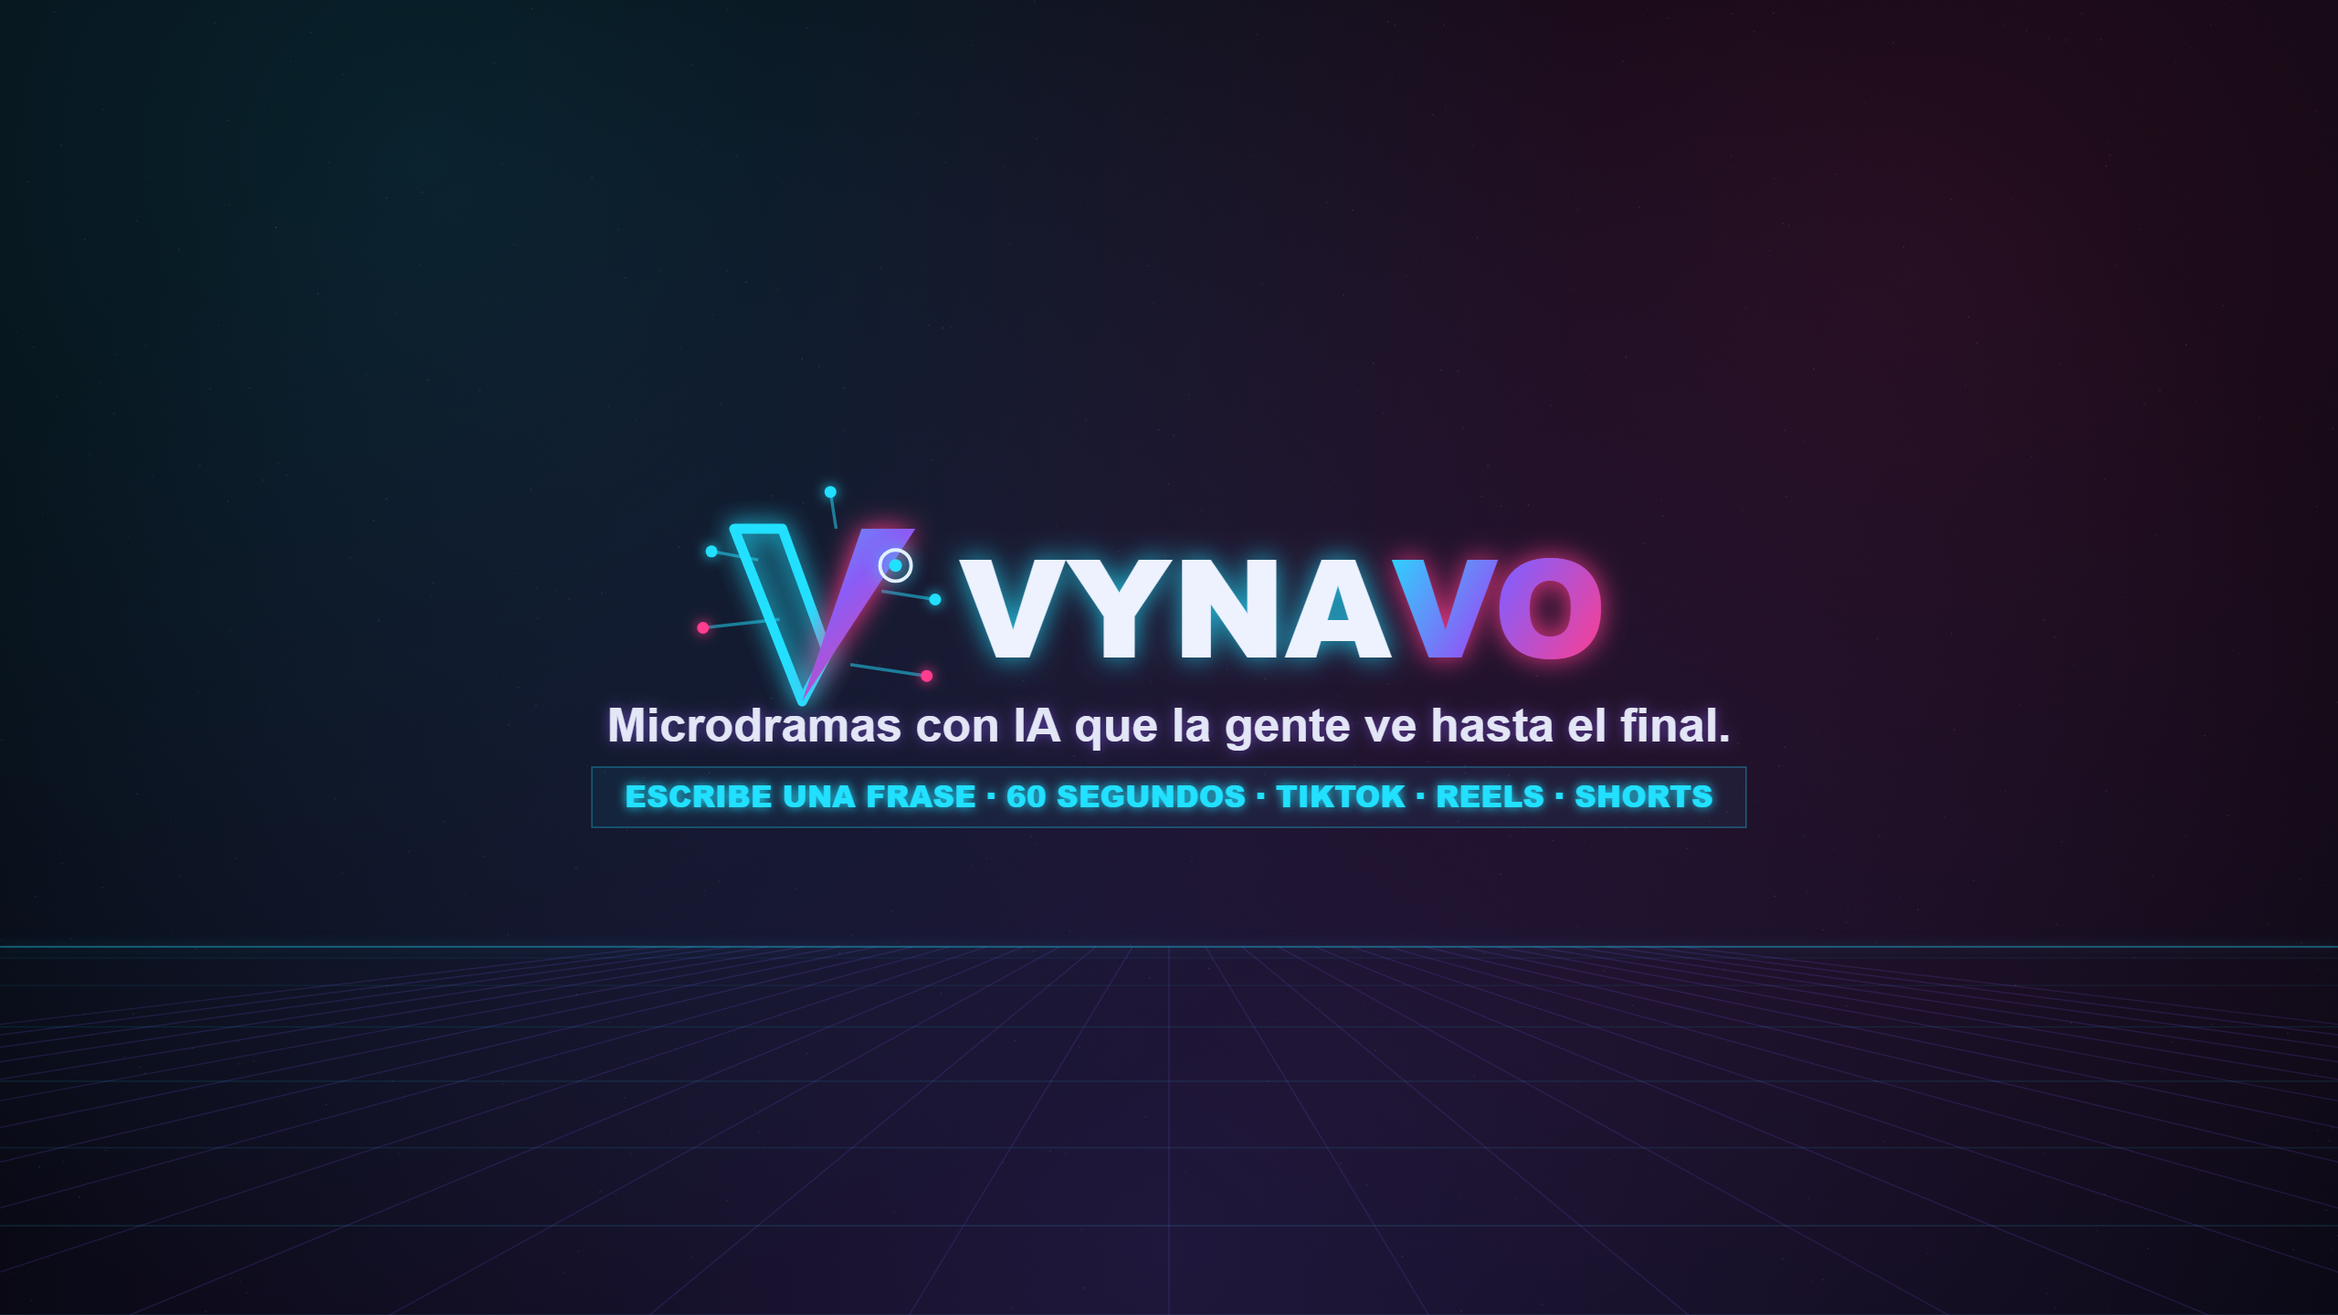
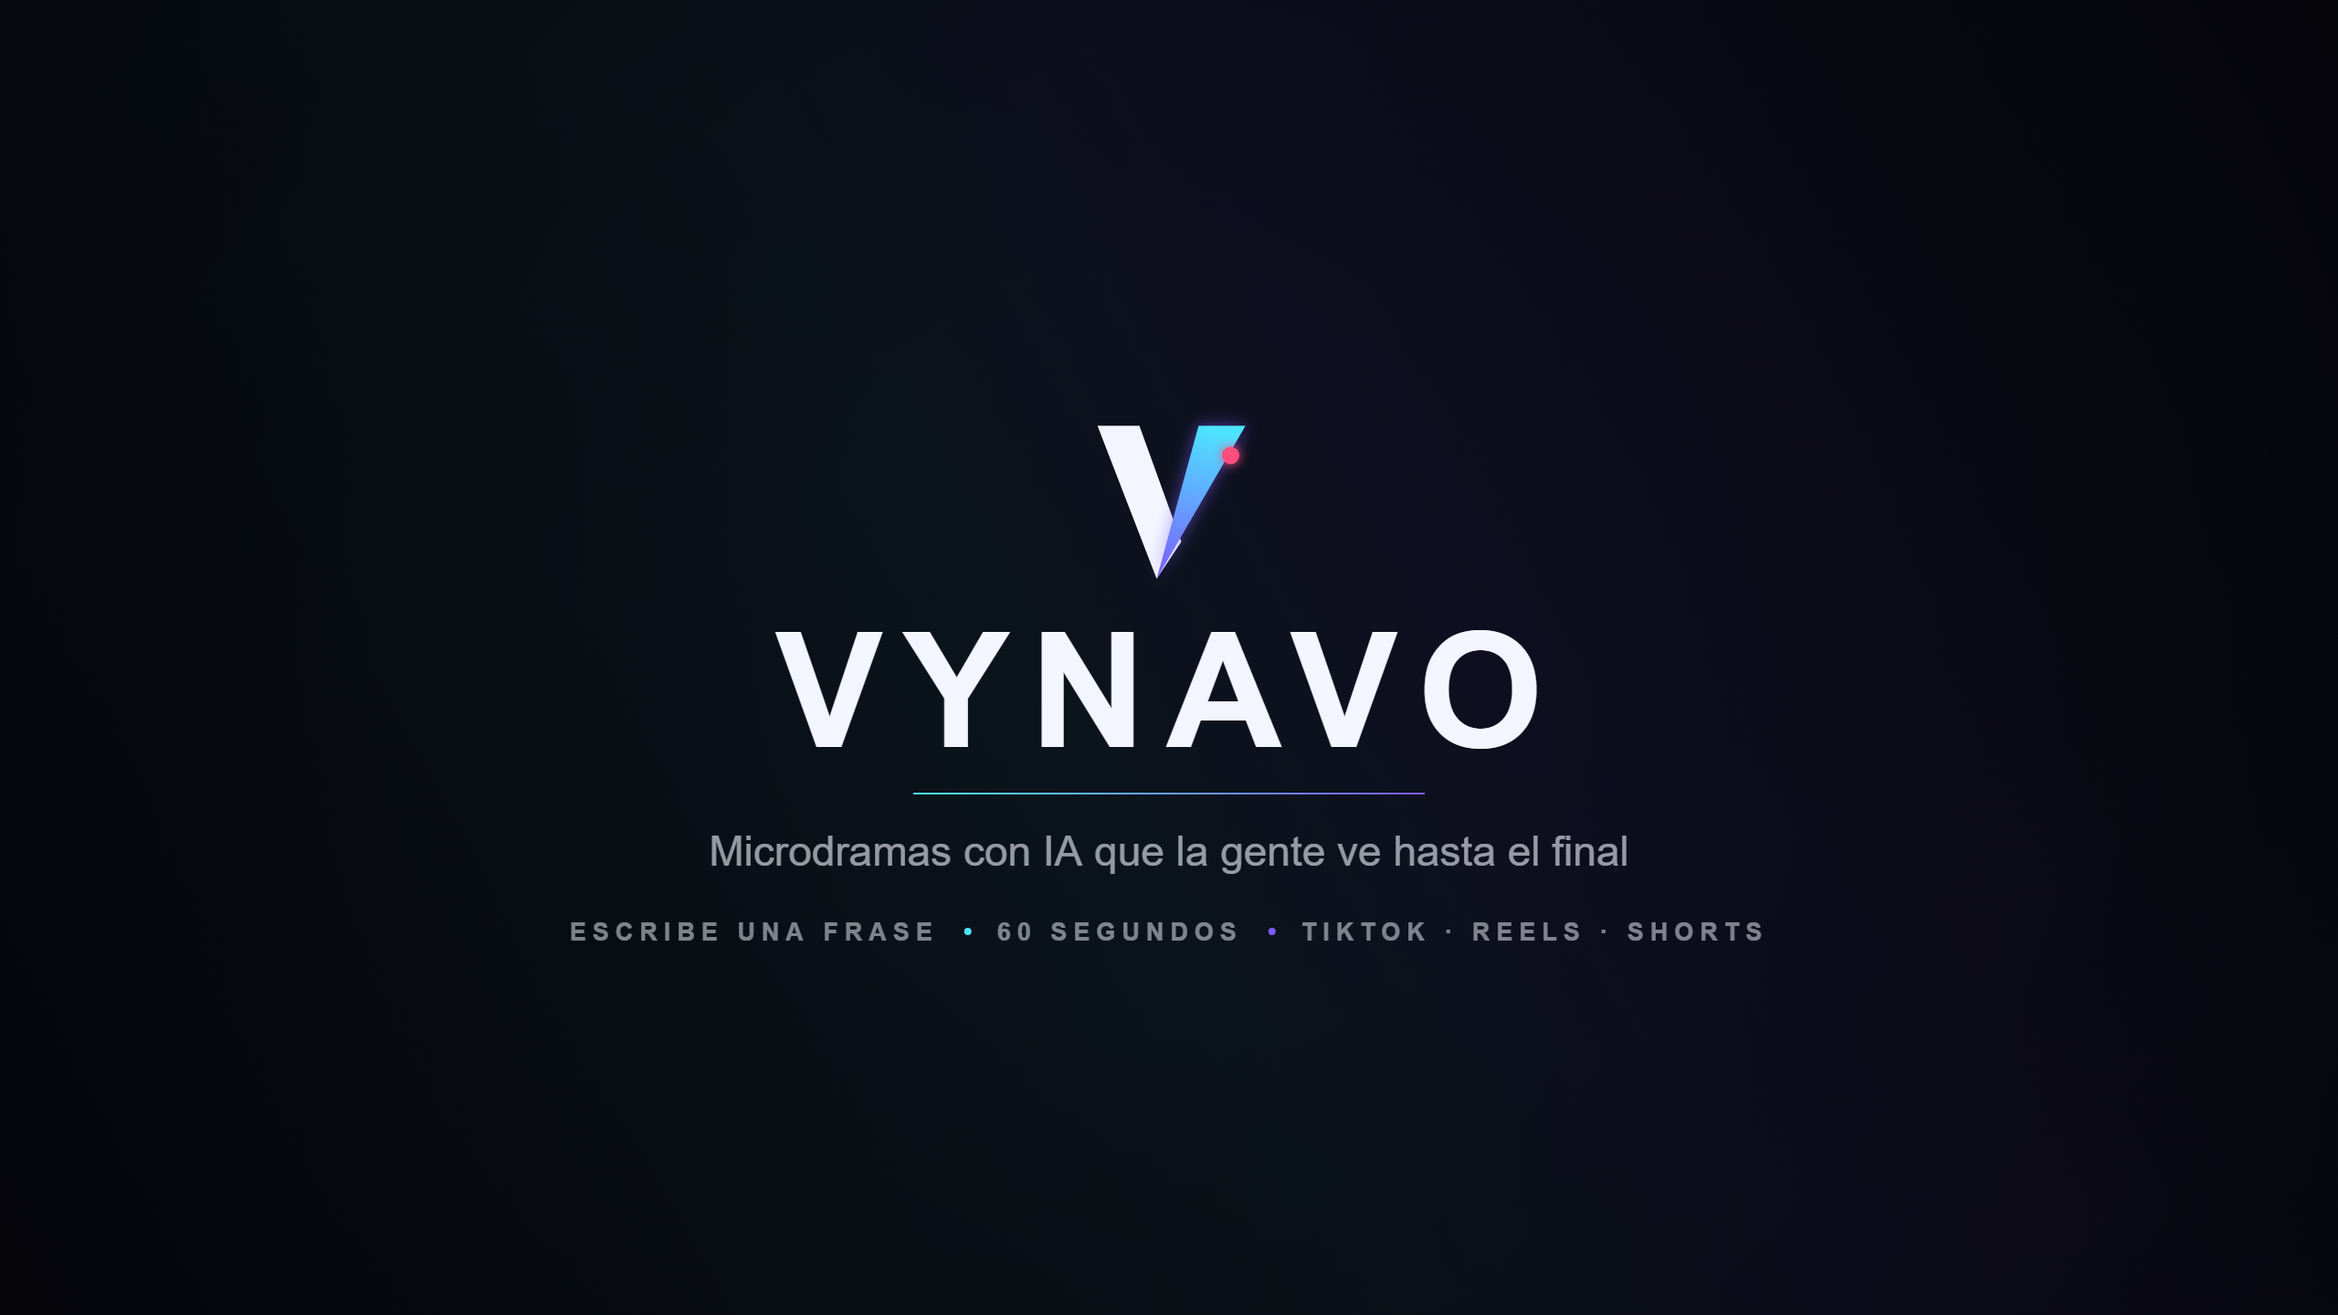
identidad v3, direccion de arte pro: geometria pura (V blanca + play en gradiente cian-violeta, punto REC como unico acento calido), glow contenido, hairline y micro-caps con tracking; perfil, portada y SVG maestro

diff --git a/brand/brand3.html b/brand/brand3.html
@@ -1,0 +1,107 @@
+<!doctype html><html><head><meta charset="utf-8">
+<link href="https://fonts.googleapis.com/css2?family=Space+Grotesk:wght@500;700&family=Inter:wght@500;600&display=swap" rel="stylesheet">
+<style>body{margin:0;background:#07080f;overflow:hidden}canvas{display:block;margin:0}</style>
+</head><body>
+<canvas id="perfil" width="800" height="800"></canvas>
+<canvas id="banner" width="2560" height="1440"></canvas>
+<script>
+// Paleta contenida: UN gradiente (cian eléctrico → violeta) + blanco roto.
+// El rosa se reserva como acento mínimo (el punto de grabación).
+const A="#4de3ff", B="#7c5cff", ACC="#ff4d7d", BG="#07080f", TX="#f4f6ff", MUT="rgba(244,246,255,0.6)";
+
+function grad(ctx,x0,y0,x1,y1){const g=ctx.createLinearGradient(x0,y0,x1,y1);g.addColorStop(0,A);g.addColorStop(1,B);return g;}
+
+// ── MARCA v3: geometría pura. V de dos trazos paralelos; el derecho ES un
+// play. Sin nodos, sin adornos. Un único acento: el punto de REC arriba.
+function mark(ctx,cx,cy,s){
+  ctx.save(); ctx.translate(cx,cy); ctx.scale(s,s);
+  // trazo izquierdo — blanco, corte diagonal limpio (paralelogramo)
+  ctx.beginPath();
+  ctx.moveTo(-58,-62); ctx.lineTo(-24,-62); ctx.lineTo(10,32); ctx.lineTo(-10,62); ctx.closePath();
+  ctx.fillStyle=TX; ctx.fill();
+  // trazo derecho — triángulo de play perfecto, gradiente, misma caída
+  ctx.beginPath();
+  ctx.moveTo(24,-62); ctx.lineTo(62,-62); ctx.lineTo(-10,62); ctx.closePath();
+  const g=grad(ctx,24,-62,-10,62);
+  ctx.fillStyle=g;
+  // glow contenido: solo en la forma de color, radio corto
+  ctx.shadowColor="rgba(124,92,255,0.55)"; ctx.shadowBlur=18; ctx.fill(); ctx.shadowBlur=0;
+  // punto REC — el único acento cálido, alineado ópticamente con el vértice
+  ctx.beginPath(); ctx.arc(50,-38,7,0,7);
+  ctx.fillStyle=ACC; ctx.shadowColor=ACC; ctx.shadowBlur=12; ctx.fill(); ctx.shadowBlur=0;
+  ctx.restore();
+}
+
+function fondo(ctx,W,H,intenso){
+  ctx.fillStyle=BG; ctx.fillRect(0,0,W,H);
+  // un solo haz diagonal de color, muy contenido — profundidad sin ruido
+  const g=ctx.createLinearGradient(0,H,W,0);
+  g.addColorStop(0,"rgba(77,227,255,0)");
+  g.addColorStop(.45,`rgba(77,227,255,${intenso?0.07:0.05})`);
+  g.addColorStop(.6,`rgba(124,92,255,${intenso?0.10:0.07})`);
+  g.addColorStop(1,"rgba(124,92,255,0)");
+  ctx.fillStyle=g; ctx.fillRect(0,0,W,H);
+  // viñeta suave para que el centro respire
+  const r=ctx.createRadialGradient(W/2,H/2,Math.min(W,H)*0.25,W/2,H/2,Math.max(W,H)*0.75);
+  r.addColorStop(0,"rgba(0,0,0,0)"); r.addColorStop(1,"rgba(0,0,0,0.5)");
+  ctx.fillStyle=r; ctx.fillRect(0,0,W,H);
+}
+
+function drawPerfil(){
+  const c=document.getElementById("perfil"),ctx=c.getContext("2d");
+  fondo(ctx,800,800,true);
+  // keyline única, hairline — nada de anillos dobles
+  ctx.beginPath(); ctx.arc(400,400,346,0,7);
+  ctx.strokeStyle="rgba(244,246,255,0.14)"; ctx.lineWidth=2; ctx.stroke();
+  // arco de acento corto (asimetría deliberada, 40°)
+  ctx.beginPath(); ctx.arc(400,400,346,-1.15,-0.45);
+  ctx.strokeStyle=grad(ctx,120,80,680,240); ctx.lineWidth=4; ctx.lineCap="round"; ctx.stroke();
+  mark(ctx,400,342,3.15);
+  // wordmark: Space Grotesk 700, tracking amplio, tamaño contenido
+  ctx.font="700 74px 'Space Grotesk', Inter, sans-serif";
+  ctx.letterSpacing="10px";
+  const t="VYNAVO", w=ctx.measureText(t).width;
+  ctx.fillStyle=TX; ctx.fillText(t,(800-w)/2,640);
+  ctx.letterSpacing="0px";
+}
+
+function drawBanner(){
+  const c=document.getElementById("banner"),ctx=c.getContext("2d");
+  const W=2560,H=1440; fondo(ctx,W,H,false);
+  const cy=H/2 - 20;
+  // lockup centrado: marca arriba, wordmark debajo — jerarquía vertical limpia
+  mark(ctx,W/2,cy-150,1.35);
+  ctx.font="700 176px 'Space Grotesk', Inter, sans-serif";
+  ctx.letterSpacing="22px";
+  const t="VYNAVO", w=ctx.measureText(t).width;
+  ctx.fillStyle=TX; ctx.fillText(t,(W-w)/2,cy+118);
+  ctx.letterSpacing="0px";
+  // hairline gradiente que separa — el único elemento decorativo
+  const lw=560;
+  const lg=grad(ctx,W/2-lw/2,0,W/2+lw/2,0);
+  ctx.fillStyle=lg; ctx.fillRect(W/2-lw/2,cy+168,lw,2);
+  // tagline: Inter 500, sereno, sin glow
+  ctx.font="500 46px Inter, sans-serif";
+  ctx.fillStyle=MUT;
+  { const tg="Microdramas con IA que la gente ve hasta el final";
+    ctx.fillText(tg,(W-ctx.measureText(tg).width)/2,cy+248); }
+  // micro-caps con tracking — sin caja, separados por puntos de color
+  ctx.font="600 27px Inter, sans-serif";
+  ctx.letterSpacing="7px";
+  { const parts=["ESCRIBE UNA FRASE","60 SEGUNDOS","TIKTOK · REELS · SHORTS"];
+    const sep=64;
+    const widths=parts.map(p=>ctx.measureText(p).width);
+    const total=widths.reduce((a,b)=>a+b,0)+sep*2;
+    let x=(W-total)/2;
+    parts.forEach((p,i)=>{
+      ctx.fillStyle="rgba(244,246,255,0.5)"; ctx.fillText(p,x,cy+330);
+      x+=widths[i];
+      if(i<2){ ctx.fillStyle=i?B:A; ctx.beginPath(); ctx.arc(x+sep/2,cy+320,4,0,7); ctx.fill(); x+=sep; }
+    });
+  }
+  ctx.letterSpacing="0px";
+}
+
+window.__ready=false;
+document.fonts.ready.then(()=>{drawPerfil();drawBanner();window.__ready=true;});
+</script></body></html>

diff --git a/brand/solo3-banner.html b/brand/solo3-banner.html
@@ -1,0 +1,106 @@
+<!doctype html><html><head><meta charset="utf-8">
+<link href="https://fonts.googleapis.com/css2?family=Space+Grotesk:wght@500;700&family=Inter:wght@500;600&display=swap" rel="stylesheet">
+<style>body{margin:0;background:#07080f;overflow:hidden}canvas{display:block;margin:0}</style>
+</head><body>
+<canvas id="banner" width="2560" height="1440"></canvas>
+<script>
+// Paleta contenida: UN gradiente (cian eléctrico → violeta) + blanco roto.
+// El rosa se reserva como acento mínimo (el punto de grabación).
+const A="#4de3ff", B="#7c5cff", ACC="#ff4d7d", BG="#07080f", TX="#f4f6ff", MUT="rgba(244,246,255,0.6)";
+
+function grad(ctx,x0,y0,x1,y1){const g=ctx.createLinearGradient(x0,y0,x1,y1);g.addColorStop(0,A);g.addColorStop(1,B);return g;}
+
+// ── MARCA v3: geometría pura. V de dos trazos paralelos; el derecho ES un
+// play. Sin nodos, sin adornos. Un único acento: el punto de REC arriba.
+function mark(ctx,cx,cy,s){
+  ctx.save(); ctx.translate(cx,cy); ctx.scale(s,s);
+  // trazo izquierdo — blanco, corte diagonal limpio (paralelogramo)
+  ctx.beginPath();
+  ctx.moveTo(-58,-62); ctx.lineTo(-24,-62); ctx.lineTo(10,32); ctx.lineTo(-10,62); ctx.closePath();
+  ctx.fillStyle=TX; ctx.fill();
+  // trazo derecho — triángulo de play perfecto, gradiente, misma caída
+  ctx.beginPath();
+  ctx.moveTo(24,-62); ctx.lineTo(62,-62); ctx.lineTo(-10,62); ctx.closePath();
+  const g=grad(ctx,24,-62,-10,62);
+  ctx.fillStyle=g;
+  // glow contenido: solo en la forma de color, radio corto
+  ctx.shadowColor="rgba(124,92,255,0.55)"; ctx.shadowBlur=18; ctx.fill(); ctx.shadowBlur=0;
+  // punto REC — el único acento cálido, alineado ópticamente con el vértice
+  ctx.beginPath(); ctx.arc(50,-38,7,0,7);
+  ctx.fillStyle=ACC; ctx.shadowColor=ACC; ctx.shadowBlur=12; ctx.fill(); ctx.shadowBlur=0;
+  ctx.restore();
+}
+
+function fondo(ctx,W,H,intenso){
+  ctx.fillStyle=BG; ctx.fillRect(0,0,W,H);
+  // un solo haz diagonal de color, muy contenido — profundidad sin ruido
+  const g=ctx.createLinearGradient(0,H,W,0);
+  g.addColorStop(0,"rgba(77,227,255,0)");
+  g.addColorStop(.45,`rgba(77,227,255,${intenso?0.07:0.05})`);
+  g.addColorStop(.6,`rgba(124,92,255,${intenso?0.10:0.07})`);
+  g.addColorStop(1,"rgba(124,92,255,0)");
+  ctx.fillStyle=g; ctx.fillRect(0,0,W,H);
+  // viñeta suave para que el centro respire
+  const r=ctx.createRadialGradient(W/2,H/2,Math.min(W,H)*0.25,W/2,H/2,Math.max(W,H)*0.75);
+  r.addColorStop(0,"rgba(0,0,0,0)"); r.addColorStop(1,"rgba(0,0,0,0.5)");
+  ctx.fillStyle=r; ctx.fillRect(0,0,W,H);
+}
+
+function drawPerfil(){
+  const c=document.getElementById("perfil"),ctx=c.getContext("2d");
+  fondo(ctx,800,800,true);
+  // keyline única, hairline — nada de anillos dobles
+  ctx.beginPath(); ctx.arc(400,400,346,0,7);
+  ctx.strokeStyle="rgba(244,246,255,0.14)"; ctx.lineWidth=2; ctx.stroke();
+  // arco de acento corto (asimetría deliberada, 40°)
+  ctx.beginPath(); ctx.arc(400,400,346,-1.15,-0.45);
+  ctx.strokeStyle=grad(ctx,120,80,680,240); ctx.lineWidth=4; ctx.lineCap="round"; ctx.stroke();
+  mark(ctx,400,342,3.15);
+  // wordmark: Space Grotesk 700, tracking amplio, tamaño contenido
+  ctx.font="700 74px 'Space Grotesk', Inter, sans-serif";
+  ctx.letterSpacing="10px";
+  const t="VYNAVO", w=ctx.measureText(t).width;
+  ctx.fillStyle=TX; ctx.fillText(t,(800-w)/2,640);
+  ctx.letterSpacing="0px";
+}
+
+function drawBanner(){
+  const c=document.getElementById("banner"),ctx=c.getContext("2d");
+  const W=2560,H=1440; fondo(ctx,W,H,false);
+  const cy=H/2 - 20;
+  // lockup centrado: marca arriba, wordmark debajo — jerarquía vertical limpia
+  mark(ctx,W/2,cy-150,1.35);
+  ctx.font="700 176px 'Space Grotesk', Inter, sans-serif";
+  ctx.letterSpacing="22px";
+  const t="VYNAVO", w=ctx.measureText(t).width;
+  ctx.fillStyle=TX; ctx.fillText(t,(W-w)/2,cy+118);
+  ctx.letterSpacing="0px";
+  // hairline gradiente que separa — el único elemento decorativo
+  const lw=560;
+  const lg=grad(ctx,W/2-lw/2,0,W/2+lw/2,0);
+  ctx.fillStyle=lg; ctx.fillRect(W/2-lw/2,cy+168,lw,2);
+  // tagline: Inter 500, sereno, sin glow
+  ctx.font="500 46px Inter, sans-serif";
+  ctx.fillStyle=MUT;
+  { const tg="Microdramas con IA que la gente ve hasta el final";
+    ctx.fillText(tg,(W-ctx.measureText(tg).width)/2,cy+248); }
+  // micro-caps con tracking — sin caja, separados por puntos de color
+  ctx.font="600 27px Inter, sans-serif";
+  ctx.letterSpacing="7px";
+  { const parts=["ESCRIBE UNA FRASE","60 SEGUNDOS","TIKTOK · REELS · SHORTS"];
+    const sep=64;
+    const widths=parts.map(p=>ctx.measureText(p).width);
+    const total=widths.reduce((a,b)=>a+b,0)+sep*2;
+    let x=(W-total)/2;
+    parts.forEach((p,i)=>{
+      ctx.fillStyle="rgba(244,246,255,0.5)"; ctx.fillText(p,x,cy+330);
+      x+=widths[i];
+      if(i<2){ ctx.fillStyle=i?B:A; ctx.beginPath(); ctx.arc(x+sep/2,cy+320,4,0,7); ctx.fill(); x+=sep; }
+    });
+  }
+  ctx.letterSpacing="0px";
+}
+
+window.__ready=false;
+document.fonts.ready.then(()=>{drawBanner();window.__ready=true;});
+</script></body></html>

diff --git a/brand/solo3-perfil.html b/brand/solo3-perfil.html
@@ -1,0 +1,106 @@
+<!doctype html><html><head><meta charset="utf-8">
+<link href="https://fonts.googleapis.com/css2?family=Space+Grotesk:wght@500;700&family=Inter:wght@500;600&display=swap" rel="stylesheet">
+<style>body{margin:0;background:#07080f;overflow:hidden}canvas{display:block;margin:0}</style>
+</head><body>
+<canvas id="perfil" width="800" height="800"></canvas>
+<script>
+// Paleta contenida: UN gradiente (cian eléctrico → violeta) + blanco roto.
+// El rosa se reserva como acento mínimo (el punto de grabación).
+const A="#4de3ff", B="#7c5cff", ACC="#ff4d7d", BG="#07080f", TX="#f4f6ff", MUT="rgba(244,246,255,0.6)";
+
+function grad(ctx,x0,y0,x1,y1){const g=ctx.createLinearGradient(x0,y0,x1,y1);g.addColorStop(0,A);g.addColorStop(1,B);return g;}
+
+// ── MARCA v3: geometría pura. V de dos trazos paralelos; el derecho ES un
+// play. Sin nodos, sin adornos. Un único acento: el punto de REC arriba.
+function mark(ctx,cx,cy,s){
+  ctx.save(); ctx.translate(cx,cy); ctx.scale(s,s);
+  // trazo izquierdo — blanco, corte diagonal limpio (paralelogramo)
+  ctx.beginPath();
+  ctx.moveTo(-58,-62); ctx.lineTo(-24,-62); ctx.lineTo(10,32); ctx.lineTo(-10,62); ctx.closePath();
+  ctx.fillStyle=TX; ctx.fill();
+  // trazo derecho — triángulo de play perfecto, gradiente, misma caída
+  ctx.beginPath();
+  ctx.moveTo(24,-62); ctx.lineTo(62,-62); ctx.lineTo(-10,62); ctx.closePath();
+  const g=grad(ctx,24,-62,-10,62);
+  ctx.fillStyle=g;
+  // glow contenido: solo en la forma de color, radio corto
+  ctx.shadowColor="rgba(124,92,255,0.55)"; ctx.shadowBlur=18; ctx.fill(); ctx.shadowBlur=0;
+  // punto REC — el único acento cálido, alineado ópticamente con el vértice
+  ctx.beginPath(); ctx.arc(50,-38,7,0,7);
+  ctx.fillStyle=ACC; ctx.shadowColor=ACC; ctx.shadowBlur=12; ctx.fill(); ctx.shadowBlur=0;
+  ctx.restore();
+}
+
+function fondo(ctx,W,H,intenso){
+  ctx.fillStyle=BG; ctx.fillRect(0,0,W,H);
+  // un solo haz diagonal de color, muy contenido — profundidad sin ruido
+  const g=ctx.createLinearGradient(0,H,W,0);
+  g.addColorStop(0,"rgba(77,227,255,0)");
+  g.addColorStop(.45,`rgba(77,227,255,${intenso?0.07:0.05})`);
+  g.addColorStop(.6,`rgba(124,92,255,${intenso?0.10:0.07})`);
+  g.addColorStop(1,"rgba(124,92,255,0)");
+  ctx.fillStyle=g; ctx.fillRect(0,0,W,H);
+  // viñeta suave para que el centro respire
+  const r=ctx.createRadialGradient(W/2,H/2,Math.min(W,H)*0.25,W/2,H/2,Math.max(W,H)*0.75);
+  r.addColorStop(0,"rgba(0,0,0,0)"); r.addColorStop(1,"rgba(0,0,0,0.5)");
+  ctx.fillStyle=r; ctx.fillRect(0,0,W,H);
+}
+
+function drawPerfil(){
+  const c=document.getElementById("perfil"),ctx=c.getContext("2d");
+  fondo(ctx,800,800,true);
+  // keyline única, hairline — nada de anillos dobles
+  ctx.beginPath(); ctx.arc(400,400,346,0,7);
+  ctx.strokeStyle="rgba(244,246,255,0.14)"; ctx.lineWidth=2; ctx.stroke();
+  // arco de acento corto (asimetría deliberada, 40°)
+  ctx.beginPath(); ctx.arc(400,400,346,-1.15,-0.45);
+  ctx.strokeStyle=grad(ctx,120,80,680,240); ctx.lineWidth=4; ctx.lineCap="round"; ctx.stroke();
+  mark(ctx,400,342,3.15);
+  // wordmark: Space Grotesk 700, tracking amplio, tamaño contenido
+  ctx.font="700 74px 'Space Grotesk', Inter, sans-serif";
+  ctx.letterSpacing="10px";
+  const t="VYNAVO", w=ctx.measureText(t).width;
+  ctx.fillStyle=TX; ctx.fillText(t,(800-w)/2,640);
+  ctx.letterSpacing="0px";
+}
+
+function drawBanner(){
+  const c=document.getElementById("banner"),ctx=c.getContext("2d");
+  const W=2560,H=1440; fondo(ctx,W,H,false);
+  const cy=H/2 - 20;
+  // lockup centrado: marca arriba, wordmark debajo — jerarquía vertical limpia
+  mark(ctx,W/2,cy-150,1.35);
+  ctx.font="700 176px 'Space Grotesk', Inter, sans-serif";
+  ctx.letterSpacing="22px";
+  const t="VYNAVO", w=ctx.measureText(t).width;
+  ctx.fillStyle=TX; ctx.fillText(t,(W-w)/2,cy+118);
+  ctx.letterSpacing="0px";
+  // hairline gradiente que separa — el único elemento decorativo
+  const lw=560;
+  const lg=grad(ctx,W/2-lw/2,0,W/2+lw/2,0);
+  ctx.fillStyle=lg; ctx.fillRect(W/2-lw/2,cy+168,lw,2);
+  // tagline: Inter 500, sereno, sin glow
+  ctx.font="500 46px Inter, sans-serif";
+  ctx.fillStyle=MUT;
+  { const tg="Microdramas con IA que la gente ve hasta el final";
+    ctx.fillText(tg,(W-ctx.measureText(tg).width)/2,cy+248); }
+  // micro-caps con tracking — sin caja, separados por puntos de color
+  ctx.font="600 27px Inter, sans-serif";
+  ctx.letterSpacing="7px";
+  { const parts=["ESCRIBE UNA FRASE","60 SEGUNDOS","TIKTOK · REELS · SHORTS"];
+    const sep=64;
+    const widths=parts.map(p=>ctx.measureText(p).width);
+    const total=widths.reduce((a,b)=>a+b,0)+sep*2;
+    let x=(W-total)/2;
+    parts.forEach((p,i)=>{
+      ctx.fillStyle="rgba(244,246,255,0.5)"; ctx.fillText(p,x,cy+330);
+      x+=widths[i];
+      if(i<2){ ctx.fillStyle=i?B:A; ctx.beginPath(); ctx.arc(x+sep/2,cy+320,4,0,7); ctx.fill(); x+=sep; }
+    });
+  }
+  ctx.letterSpacing="0px";
+}
+
+window.__ready=false;
+document.fonts.ready.then(()=>{drawPerfil();window.__ready=true;});
+</script></body></html>
